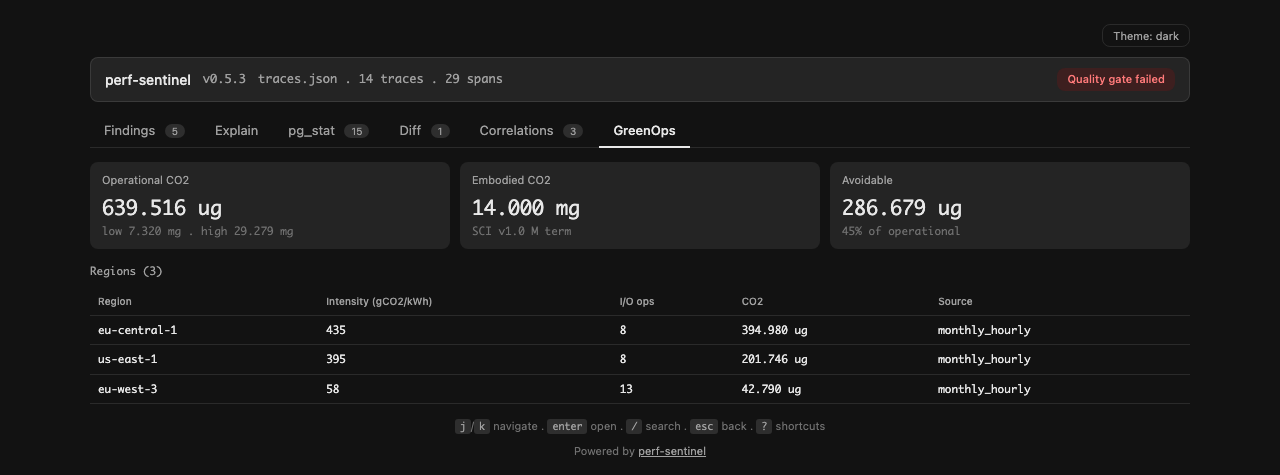
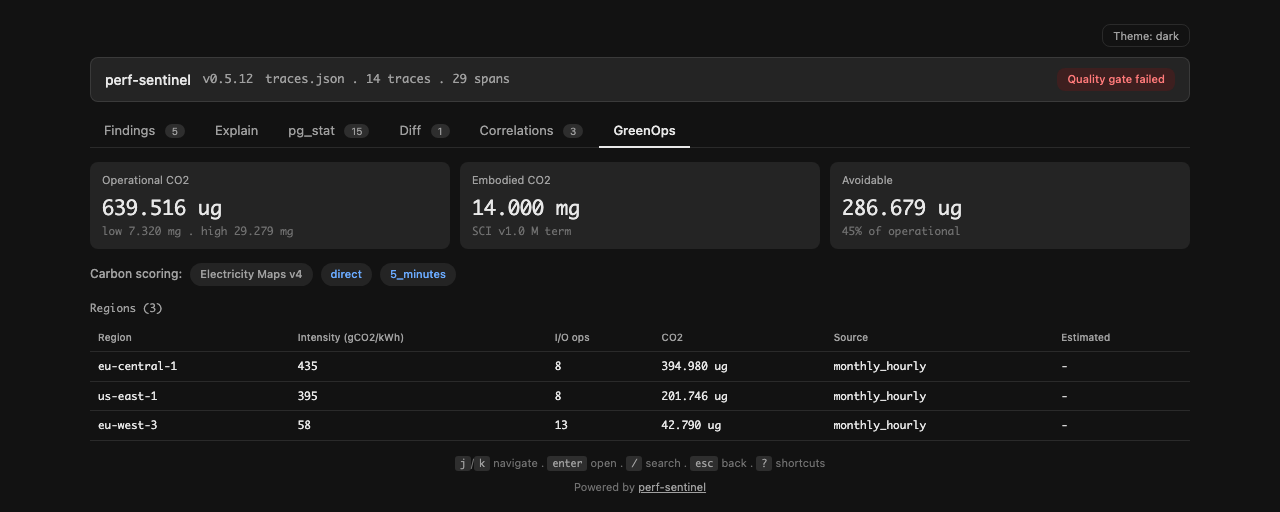
docs(dashboard): surface scoring config bandeau in demo assets

diff --git a/crates/sentinel-cli/tests/browser/global-setup.ts b/crates/sentinel-cli/tests/browser/global-setup.ts
@@ -200,11 +200,21 @@ function writeDemoEvents(source: string, dest: string) {
   writeFileSync(dest, JSON.stringify(events));
 }
 
-// Splice synthetic correlations into the dashboard's embedded JSON
-// payload. The script tag holds a JSON blob where every `</` is
-// escaped to `<\/` (inject() in html.rs does this to block the
-// script-tag-escape family of XSS defects); we unescape, mutate,
-// and re-escape with the same rule.
+// Splice synthetic correlations + Electricity Maps scoring_config
+// into the dashboard's embedded JSON payload. The batch pipeline
+// emits neither (correlations need the daemon's rolling window,
+// scoring_config needs a configured `[green.electricity_maps]`
+// block with an auth token), so the demo patches them in
+// post-render to surface the Correlations tab and the GreenOps
+// scoring config bandeau in one dashboard. The script tag holds a
+// JSON blob where every `</` is escaped to `<\/` (inject() in
+// html.rs does this to block the script-tag-escape family of XSS
+// defects), we unescape, mutate, and re-escape with the same rule.
+//
+// scoring_config is built with `direct` + `5_minutes` opt-ins
+// (Scope 2 audit-grade profile) so the bandeau renders one v4
+// neutral chip plus two accent chips, exercising every chip
+// modifier in a single still.
 function injectDemoCorrelations(htmlPath: string) {
   const START = '<script id="report-data" type="application/json">';
   const END = "</script>";
@@ -222,6 +232,12 @@ function injectDemoCorrelations(htmlPath: string) {
   const payload = JSON.parse(escaped.replace(/<\\\//g, "</"));
   payload.report = payload.report ?? {};
   payload.report.correlations = DEMO_CORRELATIONS;
+  payload.report.green_summary = payload.report.green_summary ?? {};
+  payload.report.green_summary.scoring_config = {
+    api_version: "v4",
+    emission_factor_type: "direct",
+    temporal_granularity: "5_minutes"
+  };
   const newEscaped = JSON.stringify(payload).replace(/<\//g, "<\\/");
   writeFileSync(htmlPath, html.slice(0, jsonStart) + newEscaped + html.slice(endIdx));
 }
